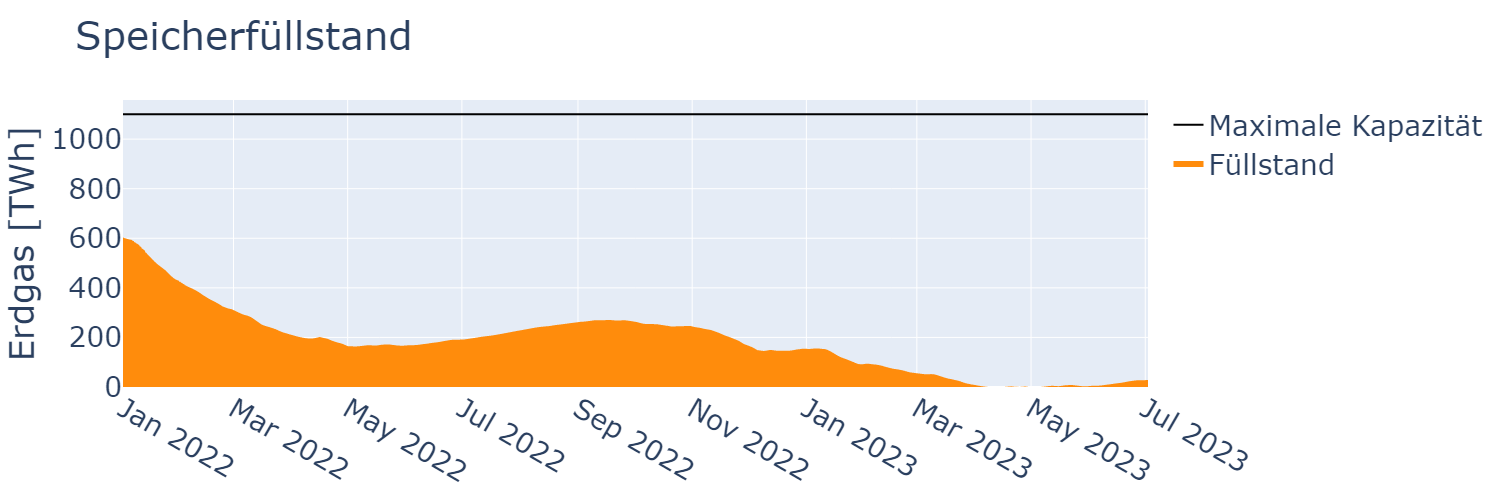
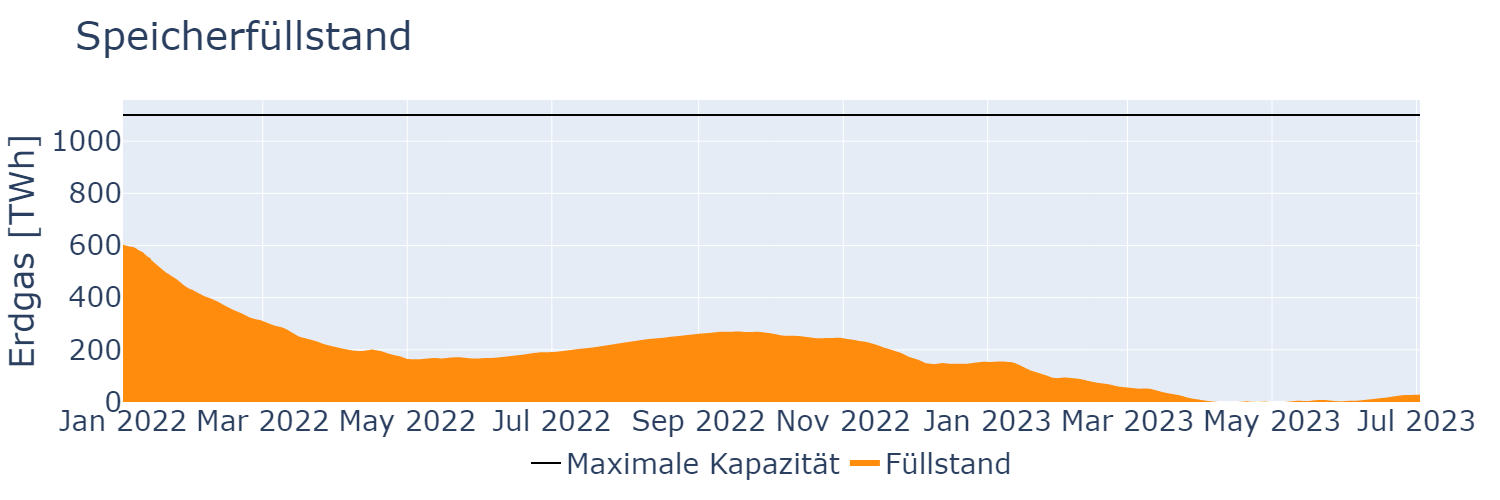
automated commit

diff --git a/streamlit_app.py b/streamlit_app.py
@@ -11,6 +11,7 @@ import plotly.graph_objects as go
 # import plotly.figure_factory as ff
 from get_data import *
 
+from rusngstorage import storage_sim as opti
 # from PIL import Image
 
 #%%
@@ -62,9 +63,13 @@ st.markdown("# Energy imports from Russia and possible alternatives")
 
 st.markdown("## Scenario calculation: Reduction of Russian gas imports")
 
+st.markdown("Running scenario...")
+opti.run_scenario()
+
+
+
+
 cols = st.columns(4)
-
-
 pl_reduction = cols[0].selectbox("Anteil russischer Gas-Importe [%]", [0])
 
 reduced_demand = cols[1].selectbox("Nachfrageredutkion", ["False", "True"], 1)
@@ -239,7 +244,7 @@ fig.update_layout(
     title=f"Speicherfüllstand",
     font=font_dict,
     yaxis_title="Erdgas [TWh]",
-    # legend=legend_dict,
+    legend=legend_dict,
 )
 # fig.update_layout(showlegend=False)
 
